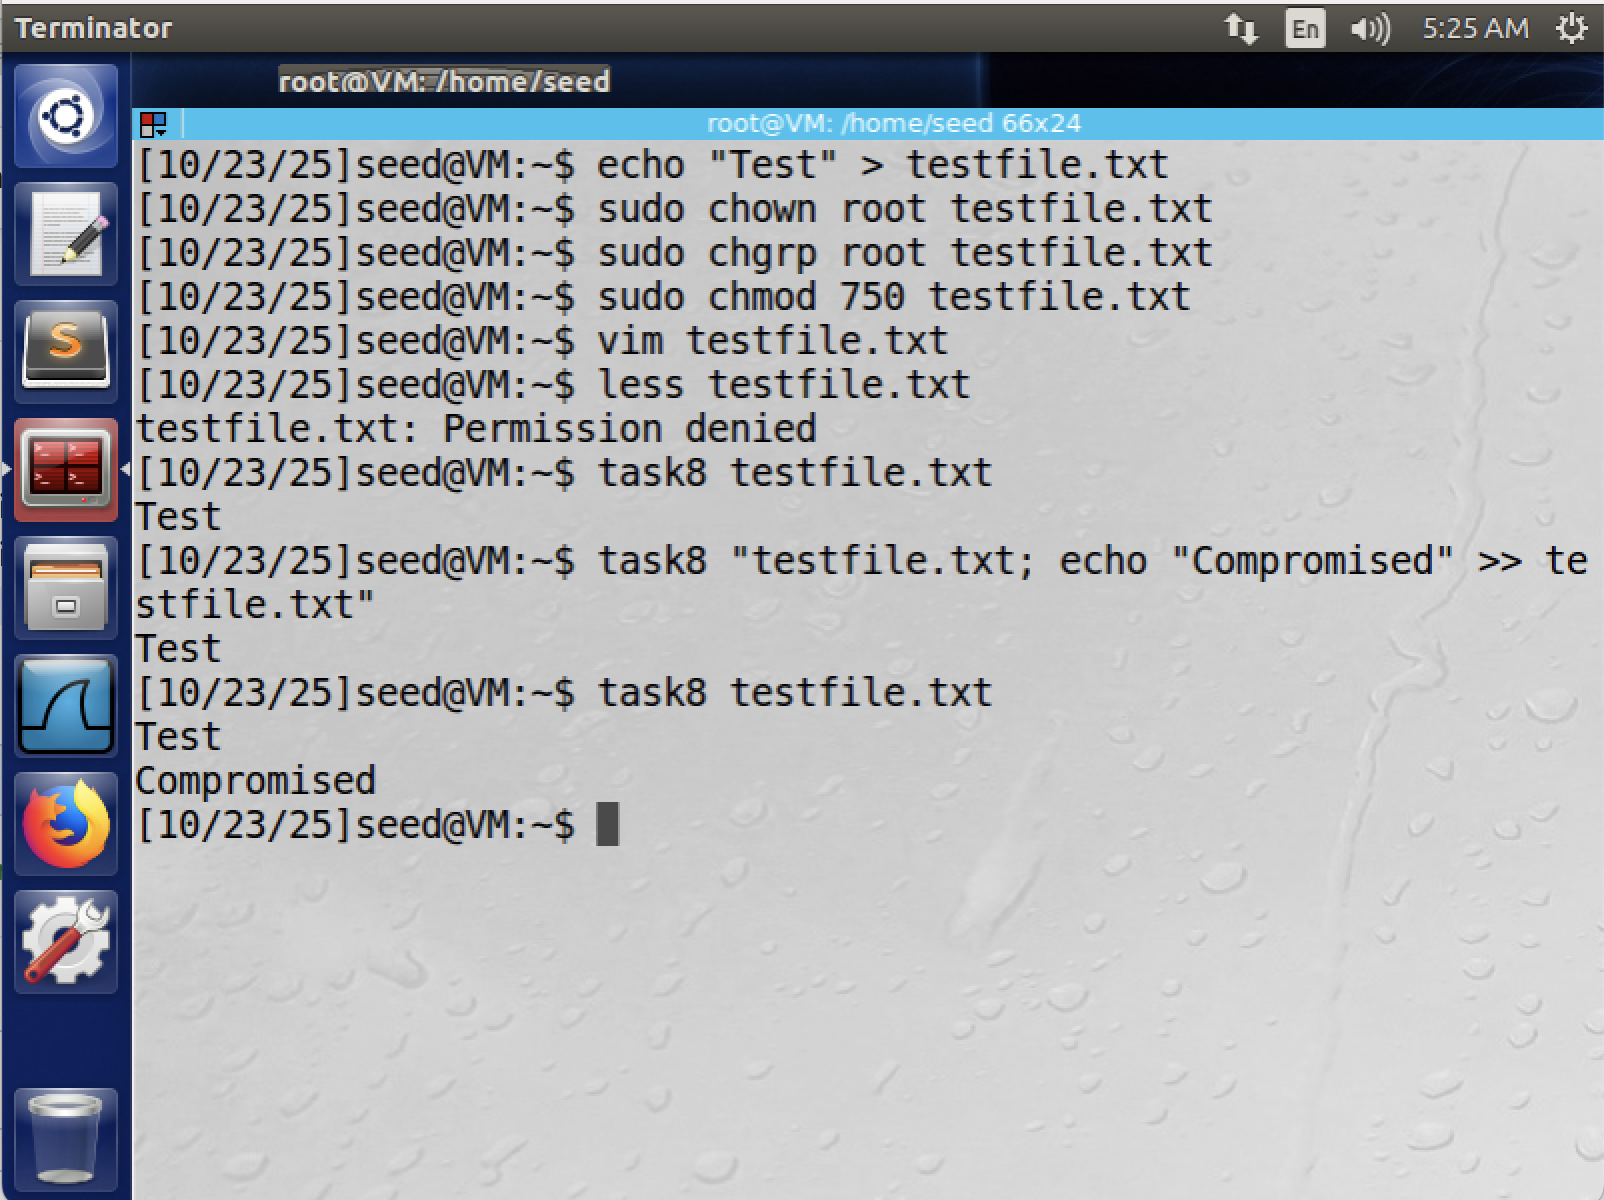
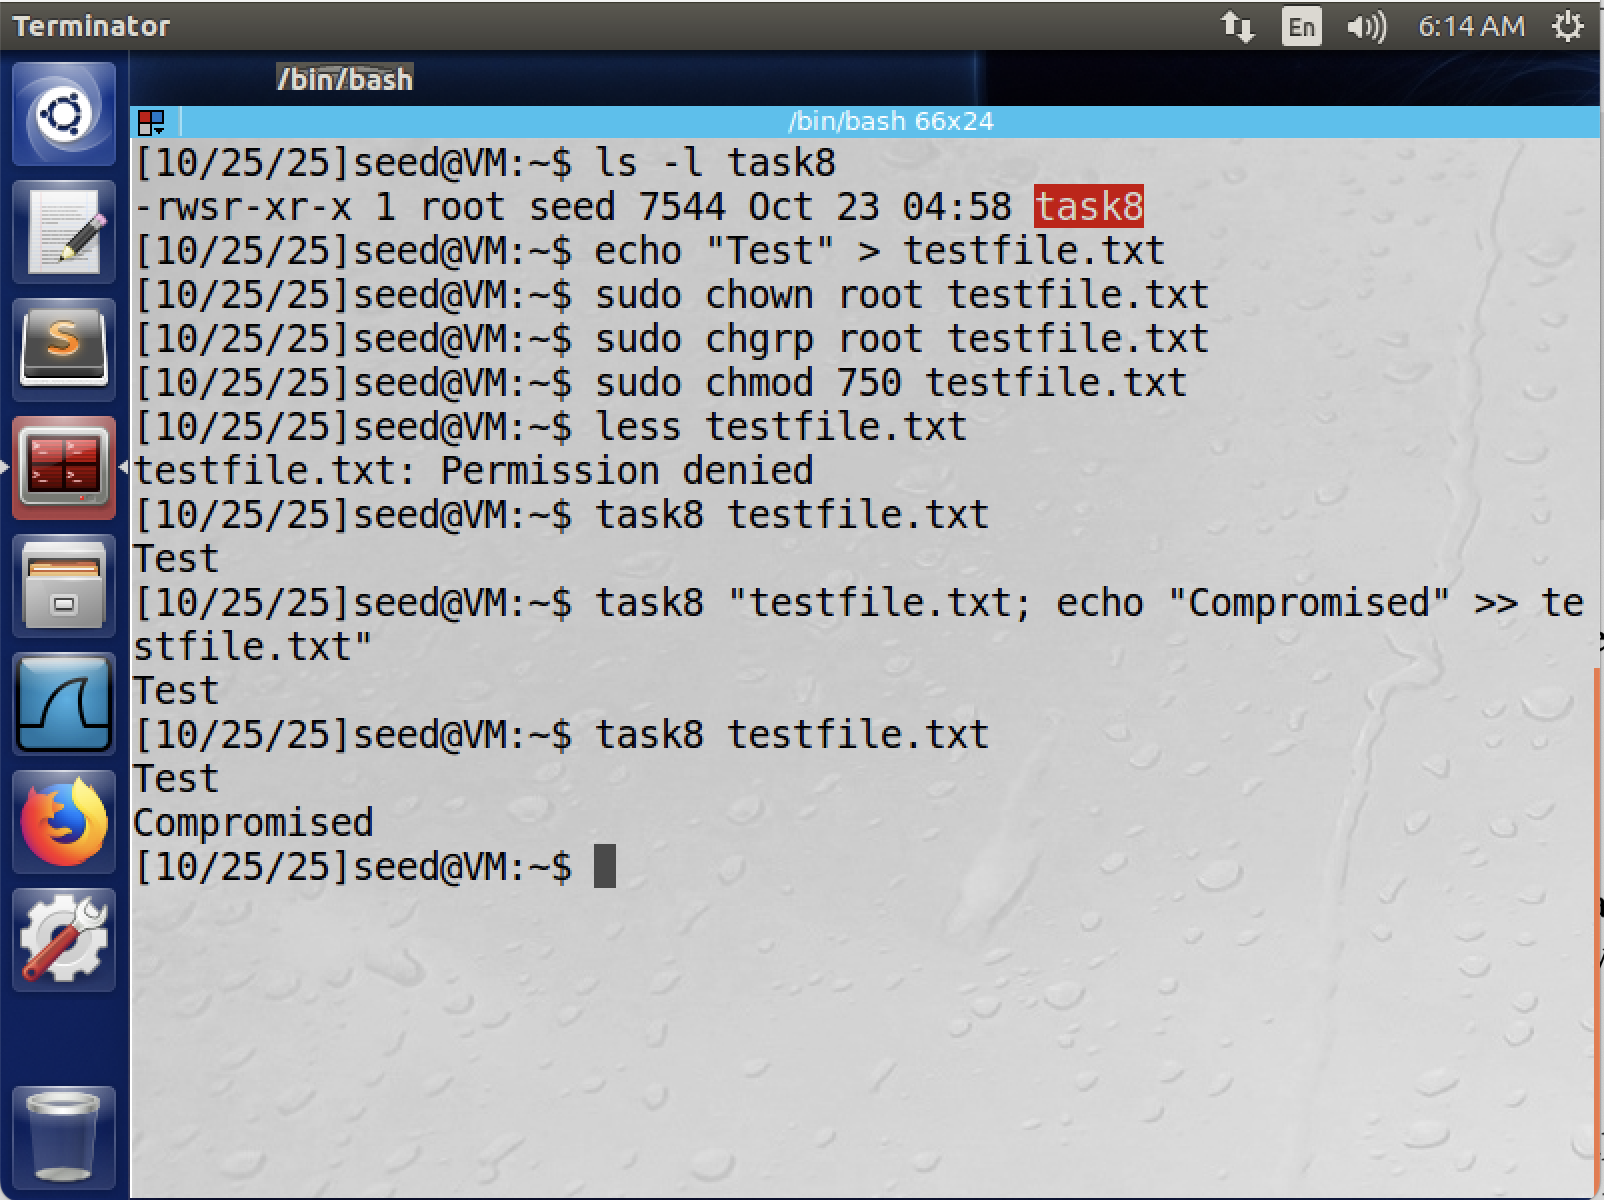
Updated lab report

Changed region(s): [[0.0, 0.0, 1.0, 1.0], [0.1559, 0.0308, 0.4052, 0.0925]]

diff --git a/Lab_Assignment_1/Report.md b/Lab_Assignment_1/Report.md
@@ -122,4 +122,34 @@ Making the program a non-root owned Set UID program and exporing `LD_PRELOAD` in
 
 ![Task 7c](./Screenshots/task7_c.png)
 
-From these
+From these experiments, we can make several conclusions:
+1. The `LD_PRELOAD` environmental variable is inherited by the child process in a non-set UID context.
+2. The `LD_PRELOAD` environmental variable is generally not inherited by the child process if the program is a Set UID program.
+3. Environment variables exported by the root account are always inherited by the child process. This is demonstrated in Figure 9, where the malicious `sleep()` function was called despite the program being Set UID.
+
+## Task 8
+### Part 1
+Yes, we are still able to compromise the integrity of the system. The simplest way to do this is to exploit the user generated parameter being passed to the `system()` function. For example, we may want to add some additional data to a file that we should have readonly permissions to. Figure 11 demonstrates this by appending text data to a file that we would otherwise not have permission to read or write. By passing the input 
+
+```sh
+task8 "testfile.txt; echo "Compromised" >> testfile.txt"
+```
+
+we are able to append the string `"Compromised"` to `testfile.txt`, despite not having permissions to read or write to it. Since task8 is a Set UID program, the `system()` command is executed with root privileges. Since root is able to read and write to `testfile.txt`, our command is successful and we can modify the file. In principle, we could create, modify, and delete any file we want through this program.
+
+![Task 8a](./Screenshots/task8_a.png)
+
+### Part 2
+Now that we are using `execve()` instead of `system()` to execute the command we are no longer able to exploit the same vulnerability in the program. When we execute the same command we now receive an error:
+```
+/bin/cat: 'testfile2.txt; echo Compromised >> testfile2.txt": No such file or directory
+```
+
+Unlike before, we cannot execute arbitrary commands using command injection. When `system()` is called it effectively executes the following:
+```sh
+/bin/sh -c "/bin/cat testfile.txt; echo 'Compromised' >> testfile.txt"
+```
+
+Thus, a shell is first spawned, and the input is then passed as the command for the shell to execute. When the command is parsed, two parts get executed: 1) "/bin/cat testfile.txt" and 2) echo 'Compromised' >> testfile.txt.
+
+However, `execve()` does not spawn a new shell to execute the command. It simply directly executes the program (i.e. /bin/cat) and passes it the input. Thus, /bin/cat looks for it's input which doesn't exist in this case and we get an error. Since there is no shell involved, the input is not parsed and our command fails.
